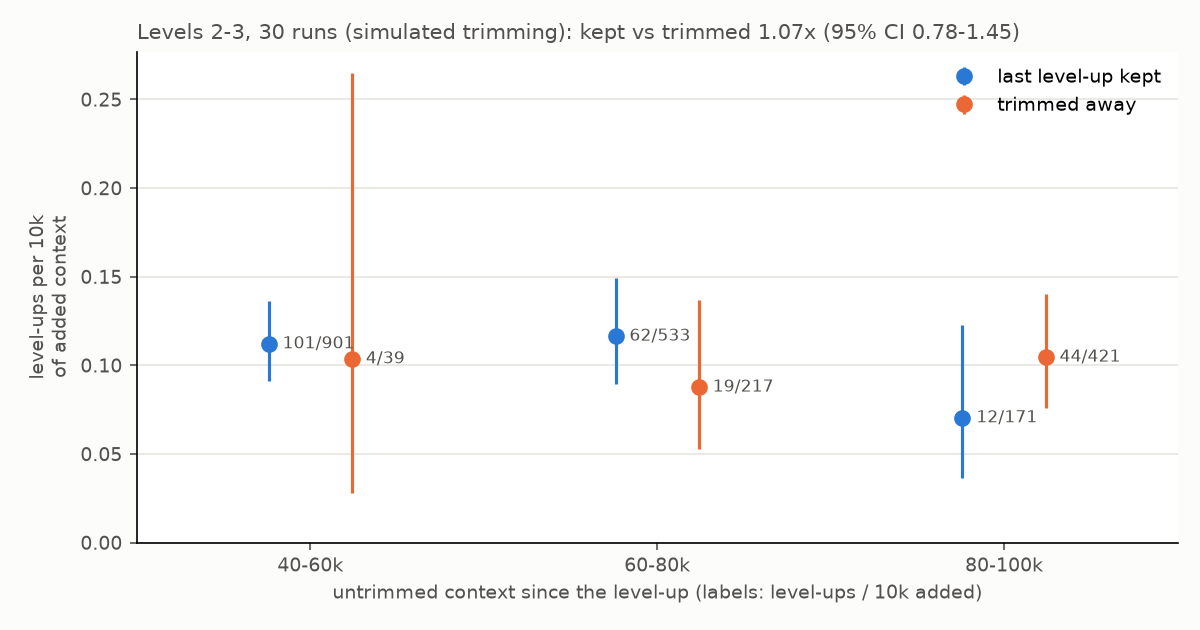
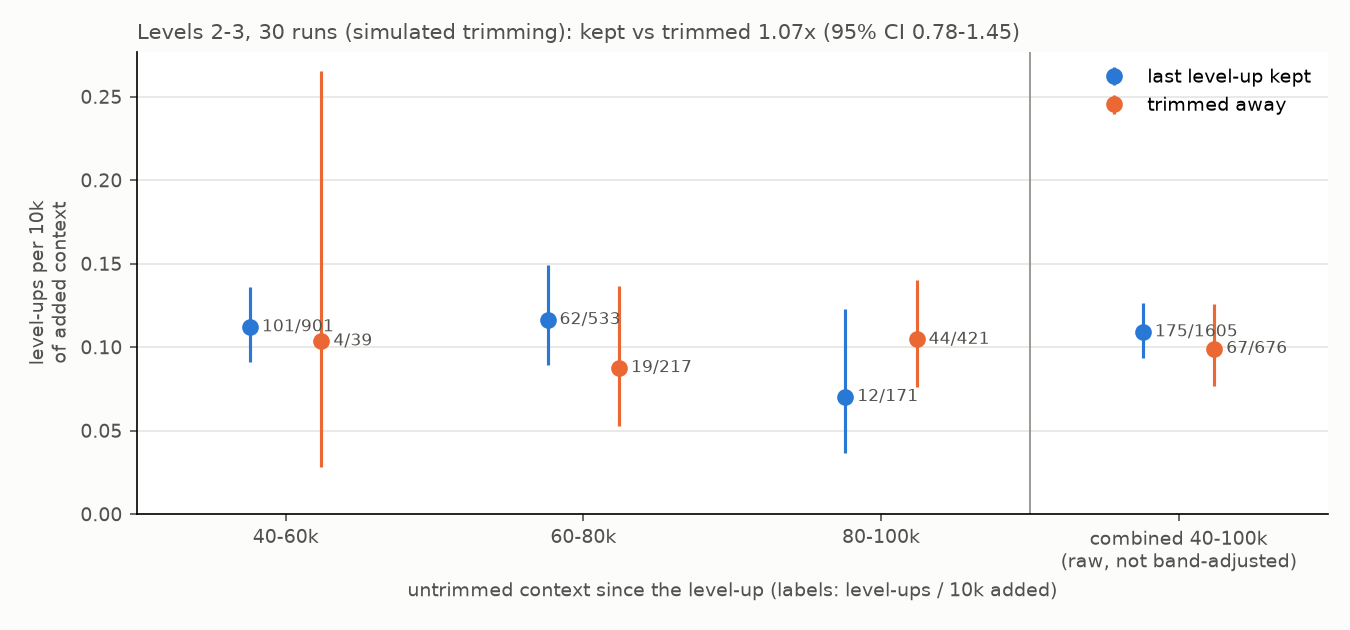
Add combined kept-vs-trimmed level-up rate to the figure

Changed region(s): [[0.0, 0.0905, 0.9867, 0.9651], [0.0925, 0.0302, 0.8633, 0.0603]]

diff --git a/docs/harness/scripts/levelup_in_context.py b/docs/harness/scripts/levelup_in_context.py
@@ -70,8 +70,9 @@ OUT = os.path.join(os.path.dirname(os.path.abspath(__file__)), "..", "images", "
 
 
 def plot(d, fit_text):
-    bands = [(40, 60), (60, 80), (80, 100)]
-    fig, ax = plt.subplots(figsize=(8, 4.2))
+    bands = [(40, 60), (60, 80), (80, 100), (40, 100)]
+    fig, ax = plt.subplots(figsize=(9, 4.2))
+    ax.axvline(len(bands) - 1.5, color=m.MUTED, linewidth=0.8)
     for i, (lo, hi) in enumerate(bands):
         w = d[(d.since >= lo * 1000) & (d.since < hi * 1000)]
         for kept, color, dx, label in ((1, m.COLORS[1], -0.12, "last level-up kept"), (0, m.COLORS[2], 0.12, "trimmed away")):
@@ -82,7 +83,7 @@ def plot(d, fit_text):
             ax.errorbar(i + dx, r, yerr=[[r - ci[0]], [ci[1] - r]], fmt="o", color=color, markersize=7,
                         linewidth=1.5, label=label if i == 0 else None)
             ax.text(i + dx + 0.04, r, f"{k}/{exp:.0f}", color=m.INK, fontsize=8, va="center")
-    ax.set_xticks(range(len(bands)), [f"{lo}-{hi}k" for lo, hi in bands])
+    ax.set_xticks(range(len(bands)), [f"{lo}-{hi}k" for lo, hi in bands[:-1]] + ["combined 40-100k\n(raw, not band-adjusted)"])
     ax.set_xlim(-0.5, len(bands) - 0.5)
     ax.set_ylim(bottom=0)
     for side in ("top", "right"):

diff --git a/docs/harness/solve-rate-vs-context.md b/docs/harness/solve-rate-vs-context.md
@@ -42,6 +42,8 @@ At the same tokens since the level-up, some attempts have already lost it to a t
 | Simulated trimming, 30 runs | 1.07 | 0.78-1.45 | 0.68 | 300 |
 | Real prompt sizes, request-log runs | 0.50 | 0.19-1.30 | 0.16 | 58 |
 
+Combined over 40-100k, the raw rates are 0.109 per 10k with the level-up kept (175 level-ups) vs 0.099 trimmed away (67), about 1.10x before adjusting for band.
+
 **No detectable effect.** The larger simulated sample centres on no difference, the small real-data sample leans the other way, and the bands disagree in direction (simulated, per 10k added: 60-80k kept 0.116 vs trimmed 0.088; 80-100k kept 0.070 vs trimmed 0.105). Simulated trims mislabel some turns, which pulls the estimate toward 1. An A/B run of `context.retain_last_level_up` (PR #31) would settle it. Script: [`scripts/levelup_in_context.py`](scripts/levelup_in_context.py).
 
 ## Data
